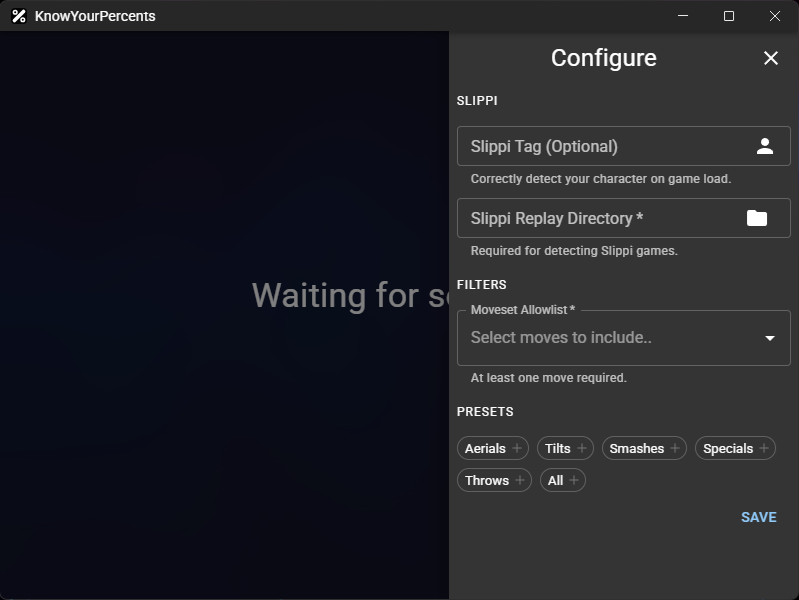
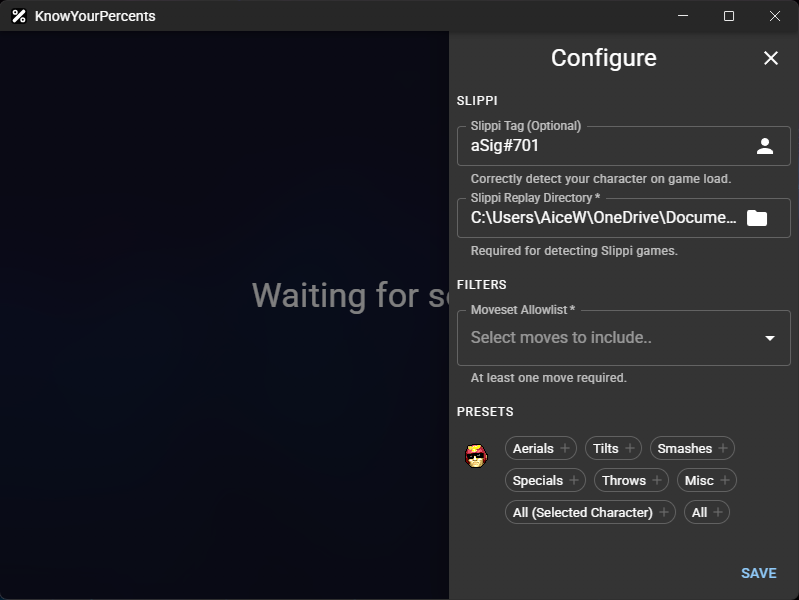
feat: in-app character based presets

diff --git a/app/src/components/Configure.jsx b/app/src/components/Configure.jsx
@@ -5,11 +5,16 @@ import PersonIcon from '@mui/icons-material/Person';
 import FolderIcon from '@mui/icons-material/Folder';
 import MovesetFilter from './MovesetFilter';
 import PresetChip from './PresetChip';
-import { moveset_list } from '../../../shared/moveset_list';
+import CharacterSelector from './CharacterSelector';
+
+import knockdown_data from '../../../shared/knockdown_data.json';
+import characters from '../../../shared/characters.json';
+import { aerials, throws, misc, specials, moveset_list } from '../../../shared/moveset_list';
 
 const Configure = ({ open, onClose, onFulfilled, allowedMoves, setAllowedMoves }) => {
 
     const [tag, setTag] = React.useState('');
+    const [presetCharacterId, setPresetCharacterId] = React.useState(0);
     const [replayDirectory, setReplayDirectory] = React.useState('');
 
     const folderBrowse = React.useCallback(async () => {
@@ -53,7 +58,18 @@ const Configure = ({ open, onClose, onFulfilled, allowedMoves, setAllowedMoves }
             newAllowedMoves = allowedMoves.filter(mv => !preset.includes(mv));
         }
         setAllowedMoves(newAllowedMoves);
-    }, [allowedMoves])
+    }, [allowedMoves, presetCharacterId])
+
+    const presets = React.useMemo(() => {
+        const presetCharacterMoves = Object.keys(knockdown_data[presetCharacterId]);
+        return ({
+            all: presetCharacterMoves,
+            aerials: presetCharacterMoves.filter(item => aerials.includes(item)),
+            specials: presetCharacterMoves.filter(item => specials.includes(item)),
+            throws: presetCharacterMoves.filter(item => throws.includes(item)),
+            misc: presetCharacterMoves.filter(item => misc.includes(item))
+        })
+    }, [presetCharacterId])
 
     return (
         <Drawer 
@@ -123,44 +139,62 @@ const Configure = ({ open, onClose, onFulfilled, allowedMoves, setAllowedMoves }
                 <Typography variant='overline' alignSelf={'flex-start'}  >
                     Presets
                 </Typography>
-                <Box display='flex' gap={1} flexDirection='row' flexWrap='wrap'>
-                    <PresetChip 
-                        presetName='Aerials' 
-                        currentMoves={allowedMoves}  
-                        preset={['upair', 'fair', 'bair', 'dair', 'nair', 'zair']}
-                        handleAction={handlePresetClick}
-                    />
-                    <PresetChip 
-                        presetName='Tilts' 
-                        currentMoves={allowedMoves}  
-                        preset={['dtilt', 'utilt', 'ftilt']}
-                        handleAction={handlePresetClick}
-                    />
-                    <PresetChip 
-                        presetName='Smashes' 
-                        currentMoves={allowedMoves}  
-                        preset={['dsmash', 'usmash', 'fsmash']}
-                        handleAction={handlePresetClick}
-                    />
-                    <PresetChip 
-                        presetName='Specials' 
-                        currentMoves={allowedMoves}  
-                        preset={['upSpecial', 'neutralSpecial', 'sideSpecial', 'downSpecial']}
-                        handleAction={handlePresetClick}
-                    />
-                    <PresetChip 
-                        presetName='Throws' 
-                        currentMoves={allowedMoves}  
-                        preset={['uthrow', 'dthrow', 'fthrow', 'bthrow']}
-                        handleAction={handlePresetClick}
-                    />
-                    <PresetChip 
-                        presetName="All"
-                        currentMoves={allowedMoves}  
-                        preset={moveset_list}
-                        handleAction={handlePresetClick}
-                    />            
+                <Box display='flex' flexDirection='row' gap={1}>
+                    <Box>
+                        <CharacterSelector title={`Preset Character (${characters[presetCharacterId].name})`} characterId={presetCharacterId} selectCharacter={(id) => setPresetCharacterId(id)} />
+                    </Box>
+                    <Box display='flex' gap={1} flexDirection='row' flexWrap='wrap'>     
+                        <PresetChip 
+                            presetName='Aerials' 
+                            currentMoves={allowedMoves}  
+                            preset={presets.aerials}
+                            handleAction={handlePresetClick}
+                        />
+                        <PresetChip 
+                            presetName='Tilts' 
+                            currentMoves={allowedMoves}  
+                            preset={['dtilt', 'utilt', 'ftilt']}
+                            handleAction={handlePresetClick}
+                        />
+                        <PresetChip 
+                            presetName='Smashes' 
+                            currentMoves={allowedMoves}  
+                            preset={['dsmash', 'usmash', 'fsmash']}
+                            handleAction={handlePresetClick}
+                        />
+                        <PresetChip 
+                            presetName='Specials' 
+                            currentMoves={allowedMoves}  
+                            preset={presets.specials}
+                            handleAction={handlePresetClick}
+                        />
+                        <PresetChip 
+                            presetName='Throws' 
+                            currentMoves={allowedMoves}  
+                            preset={presets.throws}
+                            handleAction={handlePresetClick}
+                        />
+                        <PresetChip 
+                            presetName='Misc' 
+                            currentMoves={allowedMoves}  
+                            preset={presets.misc}
+                            handleAction={handlePresetClick}
+                        />
+                        <PresetChip 
+                            presetName="All (Selected Character)"
+                            currentMoves={allowedMoves}
+                            preset={presets.all}
+                            handleAction={handlePresetClick}
+                        />   
+                        <PresetChip 
+                            presetName="All"
+                            currentMoves={allowedMoves}  
+                            preset={moveset_list}
+                            handleAction={handlePresetClick}
+                        />          
+                    </Box>
                 </Box>
+                <Box flexGrow={1} />
                 <Button onClick={handleClose} sx={{ alignSelf: 'flex-end' }}>Save</Button>
             </Box>
         </Drawer>

diff --git a/site/src/routes/Application.jsx b/site/src/routes/Application.jsx
@@ -26,7 +26,7 @@ export const App = () => {
                     Once playing, the app will automatically:
                 </Typography>
                     <ul>
-                        <li>Adjust the charts to the current matchup</li>
+                        <li>Adjust the chart to the current matchup</li>
                         <li>Highlight available moves that knockdown as percents change</li>
                     </ul>
                 <Typography variant='h2' fontSize='1.5em' paddingBottom={1} paddingTop={3}>
@@ -96,19 +96,15 @@ export const App = () => {
                                     <Chip color="warning" size="small" label="Required" />
                                 </Box>
                                 <Typography>
-                                    The moves that will appear on the realtime charts.
+                                    The moves that will appear on the realtime chart. Select a character for presets to fill correctly.
                                 </Typography>
-                                <Alert severity="info" sx={{ alignItems: 'center' }}>
-                                    Despite being visually similar, the presets behave differently than the online chart due to not having character context. 
-                                    Be sure to manually search for any moves that may not be covered by the presets. 
-                                </Alert>
                             </li>
                         </ul>
                         <ImgContainer>
                             <img src='/assets/configure-2.png' width={isMobile ? '80%' : '400px'} alt='The application configuration page.' style={imgStyle} />
                         </ImgContainer>
                         <Typography>
-                            Once configured correctly, you will see the idle state update to be "Waiting for a game..."
+                            Settings will save on either exiting the drawer or pressing "Save". Once configured correctly, you will see the idle state update to be "Waiting for game..."
                         </Typography>
                         <ImgContainer>
                             <img src='/assets/configure-3.png' width={isMobile ? '80%' : '400px'} alt='The is configured.' style={imgStyle} />
@@ -119,7 +115,7 @@ export const App = () => {
                             Gameplay
                         </Typography>
                         <Typography>
-                            You're ready to play! Hop into any Slippi game to see knockdown charts. They will update in realtime in green when the recipient's percent threshold exceeds the entry.
+                            You're ready to play! Hop into any Slippi game to see the knockdown chart. The rows will update to the color green when the recipient's percent exceeds the row's percent.
                         </Typography>
                         <Alert severity="info" sx={{ alignItems: 'center' }}>
                             Doubles matches not supported.
@@ -132,7 +128,7 @@ export const App = () => {
                         </Typography>
                         <Box p={1}>
                             <Alert severity="info" sx={{ alignItems: 'center' }}>
-                                These setting will be remembered between games, but not saved on app exit.
+                                These settings will be remembered between games, but not saved on app exit.
                             </Alert>
                         </Box>
                         <ul style={{ paddingLeft: '32px' }}>

diff --git a/app/src/components/CharacterSelectPopover.jsx b/app/src/components/CharacterSelectPopover.jsx
@@ -1,0 +1,73 @@
+import React from 'react';
+import { IconButton, Box, Tooltip, Popover } from '@mui/material';
+import characters from '../../../shared/characters.json';
+
+const characterRows = [
+    [22, 8, 7, 5, 12, 17, 1, 0, 25],
+    [20, 2, 11, 14, 4, 16, 18, 6, 21],
+    [24, 13, 15, 10, 3, 9, 23]
+];
+
+export const CharacterSelectPopover = ({ selectCharacter }) => {
+    const [anchorEl, setAnchorEl] = React.useState(null);
+    const [open, setOpen] = React.useState(false);
+    const [initialized, setInitialized] = React.useState(false);
+
+    const handleClick = (event, value) => {
+        if (!open && value === 18) {
+            setAnchorEl(event.currentTarget);
+            setOpen(true);
+        } else {
+            setOpen(false);
+            selectCharacter(value);
+        }
+    };
+
+    React.useEffect(() => !initialized && setInitialized(true), []);
+
+    return (
+        <Box display={initialized ? 'inherit' : 'null'} minWidth={'360px'}>
+            {characterRows.map((row, idx) => (
+                <Box 
+                    key={`characters-row-${idx}`} 
+                    display='flex' 
+                    justifyContent='center'
+                    sx={{ opacity: open ? 0.2 : 1 }}
+                >
+                    {row.map((characterId) => (
+                        <Tooltip title={characters[characterId].name} key={`character-${characterId}`} disableInteractive> 
+                            <IconButton onClick={(event) => handleClick(event, characterId)} >
+                                <img aria-hidden='true' src={`./assets/icons/${characterId}-Default.png`} />
+                            </IconButton>
+                        </Tooltip>
+                    ))}
+                </Box>
+            ))}
+            <Popover
+                // Note: The following zIndex style is specifically for documentation purposes and may not be necessary in your application.
+                open={open}
+                anchorEl={anchorEl}
+                anchorOrigin={{
+                    vertical: 'top',
+                    horizontal: 'center',
+                }}
+                transformOrigin={{
+                    vertical: 'bottom',
+                    horizontal: 'center',
+                }}
+                sx={{ minWidth: '80px' }}
+                onClose={() => setOpen(false)}
+            >
+                {[18, 19].map((subCharacter) => (
+                    <Tooltip title={characters[subCharacter].name} key={`character-${subCharacter}`}>
+                        <IconButton onClick={(event) => handleClick(event, subCharacter)} >
+                            <img src={`./assets/icons/${subCharacter}-Default.png`} />
+                        </IconButton>
+                    </Tooltip>
+                ))}
+            </Popover>
+        </Box>
+    )
+}
+
+export default CharacterSelectPopover;

diff --git a/app/src/components/CharacterSelector.jsx b/app/src/components/CharacterSelector.jsx
@@ -1,0 +1,46 @@
+import { IconButton, Tooltip, Popover } from '@mui/material';
+import React from 'react';
+import CharacterSelectPopover from './CharacterSelectPopover';
+import characters from '../../../shared/characters.json';
+
+export const CharacterSelector = ({ title, characterId, selectCharacter }) => {
+    const [anchorEl, setAnchorEl] = React.useState(null);
+    const [open, setOpen] = React.useState(false);
+
+    const handleClick = (event) => {
+        setAnchorEl(event.currentTarget);
+        setOpen(!open);
+    };
+
+    const handleSelect = React.useCallback((id) => {
+        setOpen(false);
+        selectCharacter(id);
+    }, [selectCharacter])
+
+    return (
+        <>
+            <Tooltip title={title}>
+                <IconButton onClick={handleClick}>
+                    <img alt={characters[characterId].name} src={`./assets/icons/${characterId}-Default.png`} />
+                </IconButton>
+            </Tooltip>
+            <Popover
+                open={open}
+                anchorEl={anchorEl}
+                anchorOrigin={{
+                    vertical: 'bottom',
+                    horizontal: 'center',
+                }}
+                transformOrigin={{
+                    vertical: 'top',
+                    horizontal: 'center',
+                }}
+                onClose={() => setOpen(false)}
+            >
+                <CharacterSelectPopover selectCharacter={handleSelect} />
+            </Popover>
+        </>
+    )
+}
+
+export default CharacterSelector;

diff --git a/site/src/components/data/Knockdowns.jsx b/site/src/components/data/Knockdowns.jsx
@@ -50,13 +50,6 @@ export const Knockdowns = () => {
         })
     }, [offenderId]);
 
-    const rows = React.useMemo(() => Object.keys(knockdowns)
-        .filter(move => knockdowns[move][recipientId] > -1)
-        .filter(move => allowedMoves.includes(move))
-        .sort((a, b) => knockdowns[a][recipientId] - knockdowns[b][recipientId]),
-        [recipientId, knockdowns, allowedMoves]
-    );
-
     const tableRows = React.useMemo(() => Object.keys(knockdowns.asdi)
         .filter(move => knockdowns.asdi[move][recipientId] > -1)
         .filter(move => allowedMoves.includes(move))

diff --git a/app/src/App.jsx b/app/src/App.jsx
@@ -2,7 +2,7 @@ import { Routes, Route, Navigate } from "react-router";
 
 import Root from "./routes/Root";
 import PageWrapper from "./components/PageWrapper";
-import { AppBar, Container, Toolbar, Typography, IconButton, Badge } from '@mui/material';
+import { AppBar, Container, Toolbar, Typography } from '@mui/material';
 import Background from "./components/Background";
 import favicon from '../../shared/assets/favicon/favicon-16.png';
 
